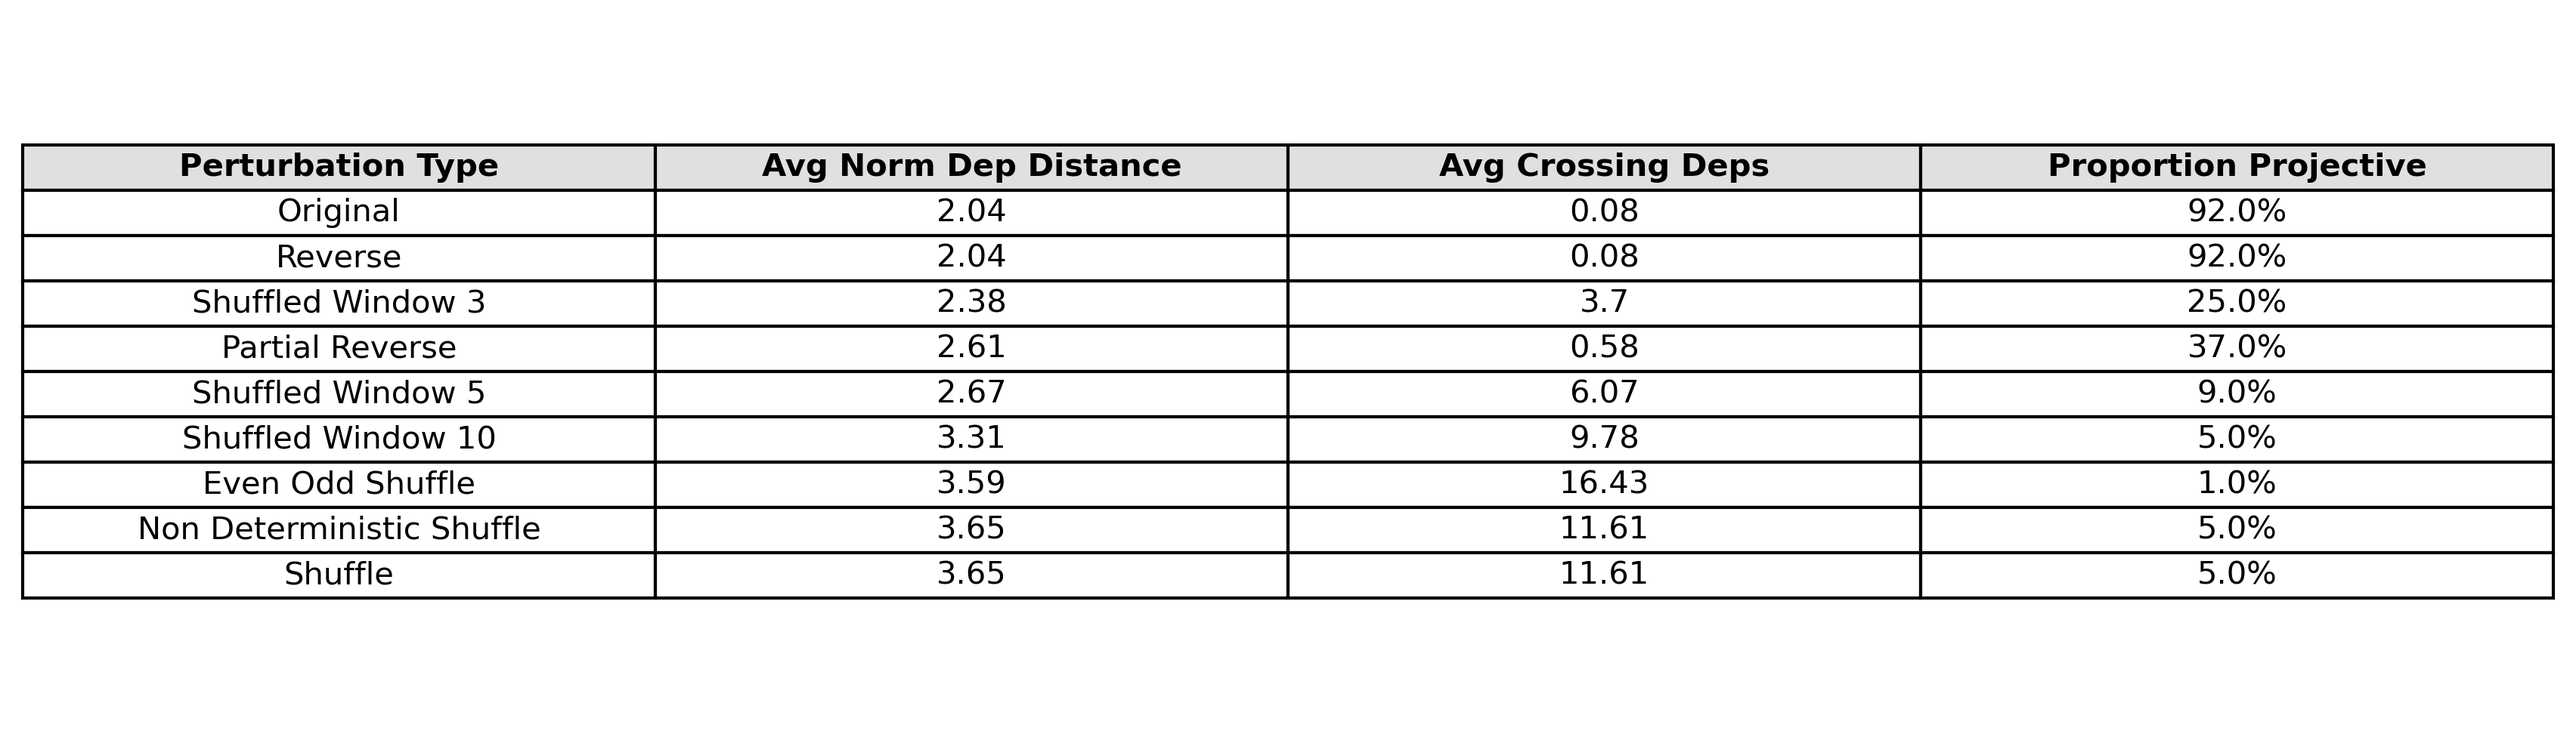
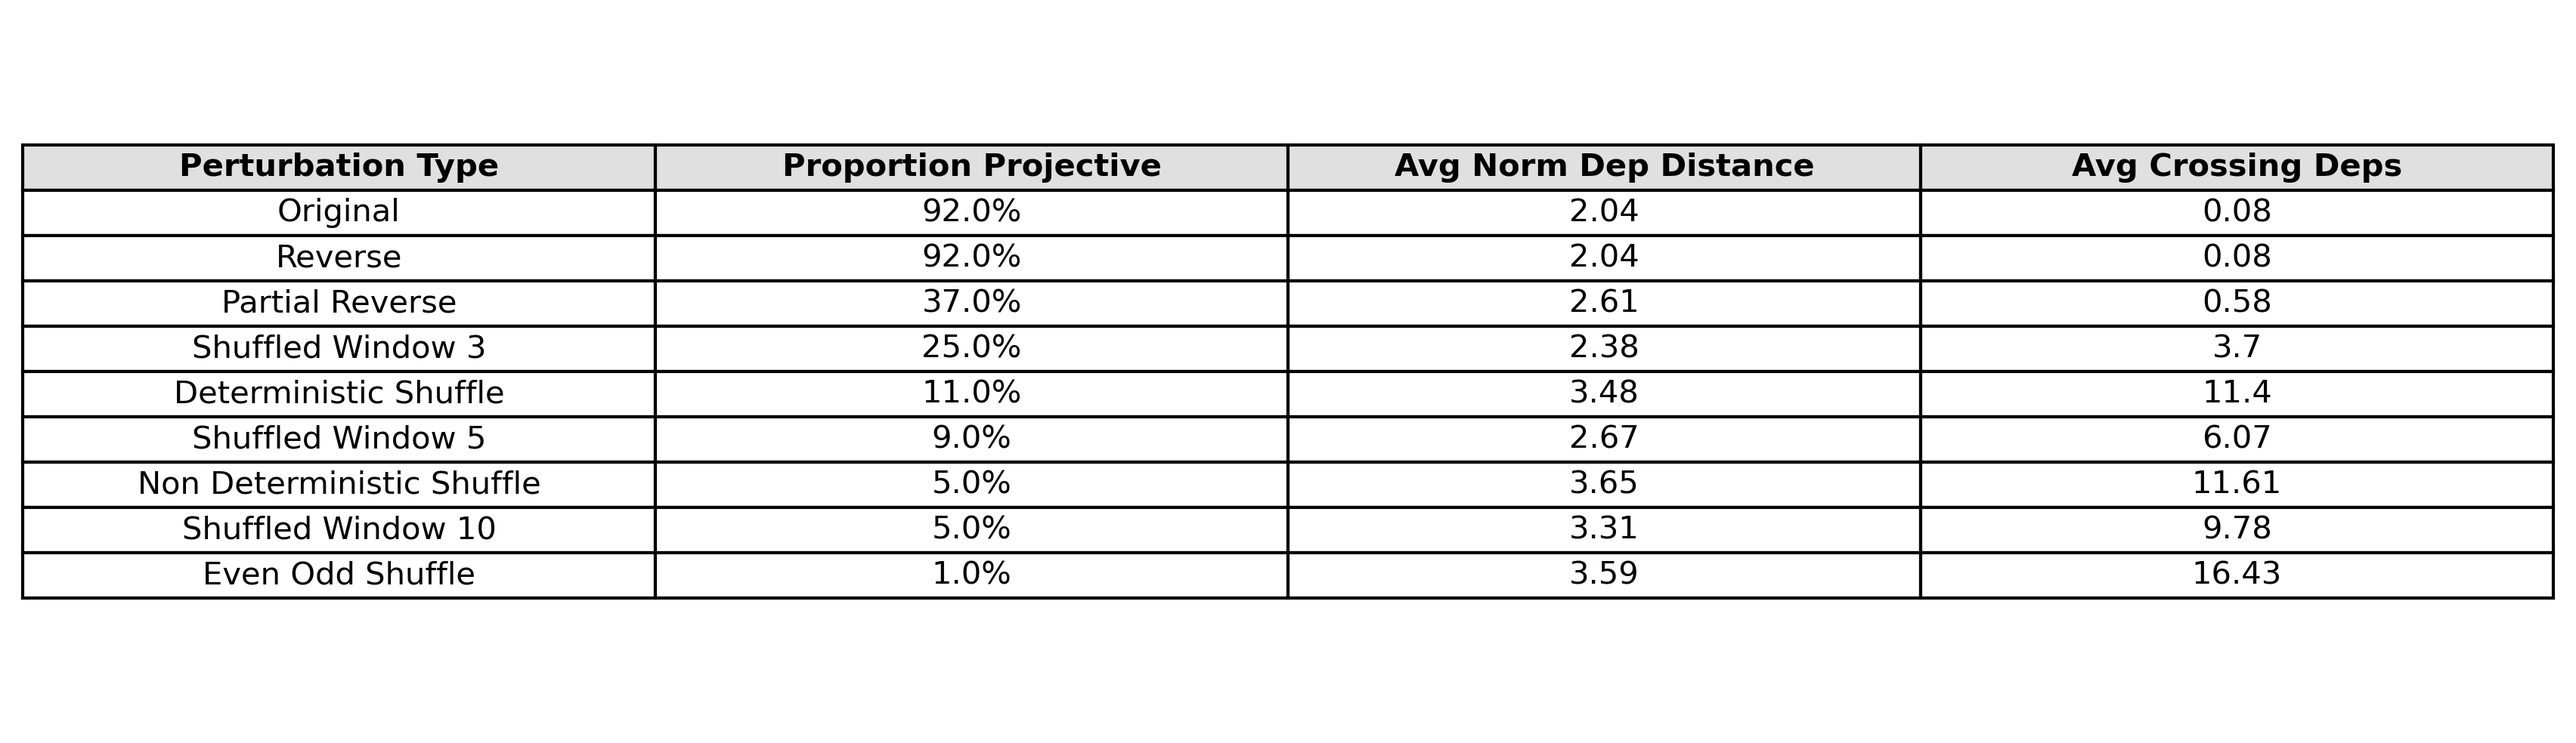
Update Dependency parse based metrics. Fix seed bug

diff --git a/analysis/dependency/dependency_parse_stats.py b/analysis/dependency/dependency_parse_stats.py
@@ -38,7 +38,7 @@ def apply_perturbations():
         'shuffled_window_3': lambda tokens, seed: apply_windowed_shuffle_perturbation(tokens, 3, seed),
         'shuffled_window_5': lambda tokens, seed: apply_windowed_shuffle_perturbation(tokens, 5, seed),
         'shuffled_window_10': lambda tokens, seed: apply_windowed_shuffle_perturbation(tokens, 10, seed),
-        'shuffle': lambda tokens, seed: apply_shuffle_deterministic_perturbation(tokens, seed),
+        'deterministic_shuffle': lambda tokens, seed: apply_shuffle_deterministic_perturbation(tokens, 21),
         'non_deterministic_shuffle': lambda tokens, seed: apply_shuffle_nondeterministic_perturbation(tokens, default_rng(seed)),
         'even_odd_shuffle': lambda tokens, seed: apply_shuffle_even_odd_perturbation(tokens)
     }
@@ -127,7 +127,7 @@ def generate_stats_table_image(filepath):
 
     # Create a DataFrame from the aggregated stats
     stats_df = pd.DataFrame.from_dict(agg_stats, orient='index')
-    stats_df = stats_df.sort_values(by='avg_norm_dep_distance', ascending=True)
+    stats_df = stats_df.sort_values(by='proportion_projective', ascending=False)
 
     # Prepare data for the table
     stats_df.index.name = 'Perturbation Type'
@@ -137,19 +137,19 @@ def generate_stats_table_image(filepath):
     # Select and rename columns for the final table
     table_df = stats_df[[
         'Perturbation Type',
+        'proportion_projective',
         'avg_norm_dep_distance',
         # 'avg_total_dep_distance',
         'avg_crossing_deps',
-        'proportion_projective',
         # 'num_sentences'
     ]].copy()
 
     table_df.columns = [
         'Perturbation Type',
+        'Proportion Projective',
         'Avg Norm Dep Distance',
         # 'Avg Total Dep Distance',
         'Avg Crossing Deps',
-        'Proportion Projective',
         # 'Num Sentences'
     ]
 
@@ -181,8 +181,8 @@ def generate_stats_table_image(filepath):
     print(f"\nSaved stats table to: {output_path}")
 
 def main():
-    # apply_perturbations()
-    # aggregate_stats('analysis/output/dep_stats.csv')
+    apply_perturbations()
+    aggregate_stats('analysis/output/dep_stats.csv')
     generate_stats_table_image('analysis/output/dep_stats.csv')
    
 if __name__ == "__main__":
